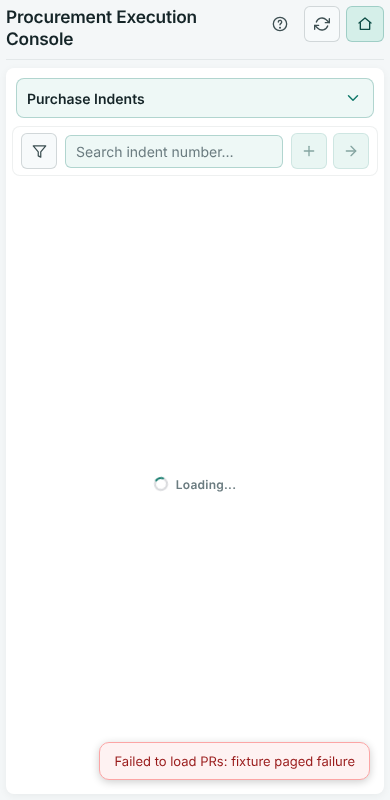
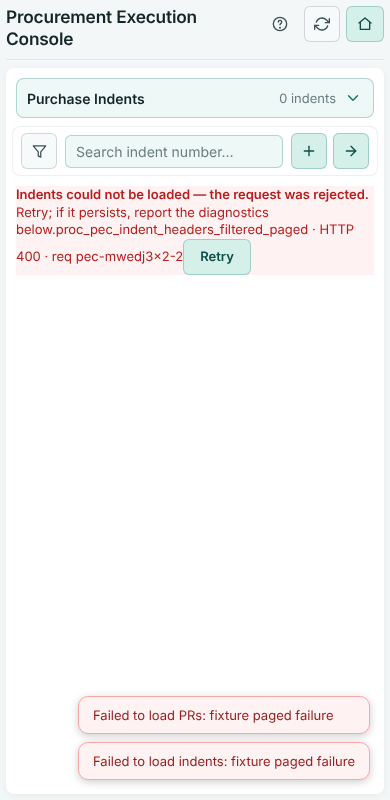
PEC R2c: handover doc, layout harness status fix
Claude-Session: https://claude.ai/code/session_018KJKkyCstrjNBsG62Z46Xo

diff --git a/docs/procurement-execution/PEC_PHASE_A_R2C_20261113.md b/docs/procurement-execution/PEC_PHASE_A_R2C_20261113.md
@@ -1,0 +1,47 @@
+# PEC Phase A R2c — Vendor-wise full-screen detail, filter-sheet focus/typography, Action→Excess load failure (13 Nov 2026)
+
+Issue #377 (parent #284 / R2b acceptance #375). Client only (`public/shared/*`). No SQL, migrations, grants, `public/sw.js`, Electron versions or procurement records; #374 stays separate. **Fixture evidence only. Owner mobile acceptance (R2b and R2c): NOT YET PASSED.**
+Base `integration/pec-erp-staging-20261112` @ `b192baf0` (R2b merged).
+
+## 1. Vendor-wise row detail
+- Owner decision implemented: the footer (`1 indent line · … Kg`) and the bottom Close are **removed** (also from the Acceptance Audit, for consistency). The header × is the single Close; Escape still closes.
+- Phones (≤640px): every `.pec-detail--panel` is a **full-screen** detail (100dvh, no dimmed list visible). The body sits on a neutral canvas (`--sasv-surface-soft`), content top-aligned, long lists scroll inside the body. Quantities (`Total Qty to Buy` in the header, per-line qty/rate/amount), the split-vendor notice and the line cards are unchanged. ≥641px stays a centred panel.
+- Dead code removed: `.pec-detail-foot*` CSS, `wireDetailFooterClose`, `#vwlBdSummary` / `#eAuditFootText` markup and JS.
+
+## 2. Filter sheets
+- **Root cause (confirmed):** on open, `openFloatingFilterDrawer` focused the first `select/input` (or the trigger's `focusId`, a select). iOS opens a focused native select picker at once. Now on a sheet the **heading (`tabindex=-1`) takes focus**; no data control is ever focused on open. Desktop popovers still focus the first field. Escape / Done / Close return focus to the trigger; Shift+Tab from the heading wraps inside the sheet; scroll lock released on close.
+- **Typography:** one scale for all seven panels (five lenses + PR/Indent line filters): labels 12px/600 (legacy uppercase 11px removed), controls 16px on phones (iOS no-zoom floor; deliberate, not oversized by accident) / 13px popover, 36px / 32px control height, section gap 10px, checkbox label 13px, tokens only. Computed-style assertions prove all seven share one scale at 320/390.
+- Not testable headless: whether a real iOS picker opens. Asserted instead: `document.activeElement` is the heading and never SELECT/INPUT/TEXTAREA. **Needs the owner's iPhone.**
+
+## 3. Intermittent Action Queue → Excess failure — honest status
+**Not reproduced; not claimed fixed.** Inspection + 8 deterministic scenarios (delayed AQ search→clear→switch; 6× rapid AQ⇄Excess switching with overlapping slow requests; stale slow Excess superseded by a search; transient network error; persistent 503; 401; AQ failure; empty result) found **no coupling**: AQ and Excess use independent request generations, abort controllers, loading depths and panels; superseded requests are aborted and dropped; no stuck mask or busy flag. What was wrong, and is fixed:
+- Any single failed Excess request (network drop / backgrounded iOS tab / expired JWT / 5xx) showed *“Change the search or filters, or reopen this tab, to retry.”* — blaming an empty search — with no retry. This is the most plausible match for the owner's one-off, but the actual trigger on the device is unknown.
+- `rpcPecPaged` now classifies failures (`abort | network | auth | server | client`) and attaches sanitized diagnostics (request id, RPC, HTTP status, code, message — tokens/bearer/apikey/JWTs stripped). Feeds make **one** automatic retry for transient kinds (network/5xx/unexpected abort), never for auth/4xx; superseded requests are never retried. Then an honest, kind-specific error state with diagnostics line and a **Retry** button (PR, Indents, Excess, Action Queue, Vendor-wise). Genuine empty results keep the filter message.
+- Load-failure **toasts used the raw server message**; they now use the sanitized one (found by the credential test).
+- Server contract unchanged; no timeouts increased.
+
+## Extra defects found (not in #377)
+- The × clear buttons in the search fields **never appeared in any lens** (two `style.display = ""` resets fell back to the stylesheet's `display:none`) — fixed (`"flex"`); this also lets the race test clear Action Queue search like a user.
+- Shared fixture failures lacked an HTTP status; they now carry 400 / are scripted via `S.fail`, `S.delay`, `S.delayQ`; the stub now simulates abort (an aborted request resolves with an AbortError).
+
+## Evidence
+`docs/procurement-execution/evidence/pec-r2c/before` (integration `b192baf0`) vs `after` — 320/390/820/1440; `detail-vwl-short` / `detail-vwl-long`, filter sheets for all lenses, `metrics.json` (e.g. 390px short Vendor-wise modal 216px → 800px full screen). Full acceptance set: `…/visual-acceptance/`.
+
+## Tests (this environment, Node 22 + Chromium; synthetic stub — not genuine-session acceptance)
+| Suite | Result |
+|---|---|
+| `pec-r2c-ui-smoke` (new) | **263 PASS / 0 FAIL** |
+| `pec-r2b-ui-smoke` (updated: no footer, full-screen) | 390 PASS / 0 FAIL |
+| `pec-phase-a-visual-acceptance` | 164 PASS / 0 FAIL |
+| `pec-r2-ui-smoke` 80 · `pec-paging-contract-smoke` 128 · `c2-vendor-selection` 53 · `c1-five-lens-fasttrack` 23 · `c1-static` 17 · `narrow-regression` 8 · `vwl-search-reliability` 39 | PASS, 0 FAIL |
+| `pec-erp-c1-layout-smoke` | PASS (re-run after its fixture failure gained an HTTP status) |
+| `pwa-cache-freshness` 13 · `vwl-offset-export-integrity` 6 · `protected-path-guard` 1 | pass, 0 fail |
+| five-lens-inventory, plm-pm-canonical, wp01-indent-serial, pr-scope, resync-mode (3/3), pr-pdf-continuation-header | exit 0 (own output format) |
+Existing assertions changed (intent kept): paged-failure fixtures now carry HTTP 400 (so the new automatic retry does not mask the error state), the second-page-failure fixture fails twice (request + its retry) to reach the Retry UI, Vendor-wise assertions describe the full-screen detail.
+**NOT TESTED:** a real iPhone (native select picker, keyboard, landscape), genuine Editor/View-only/no-access sessions, hosted preview, packaged Electron (no electron-builder here; static single-source parity only), the owner's actual intermittent failure.
+
+## Owner checklist (iPhone)
+- [ ] Vendor-wise: short (1 line) and long lists are full-screen, no bottom total/Close, nothing dimmed below
+- [ ] Opening any filter sheet (all five lenses and PR/Indent line filters) does **not** pop a picker; text sizes look consistent
+- [ ] Search × buttons now appear
+- [ ] Repeat Action Queue type→clear→Excess; if a load error recurs, send the diagnostics line (RPC · HTTP · code · req id)
